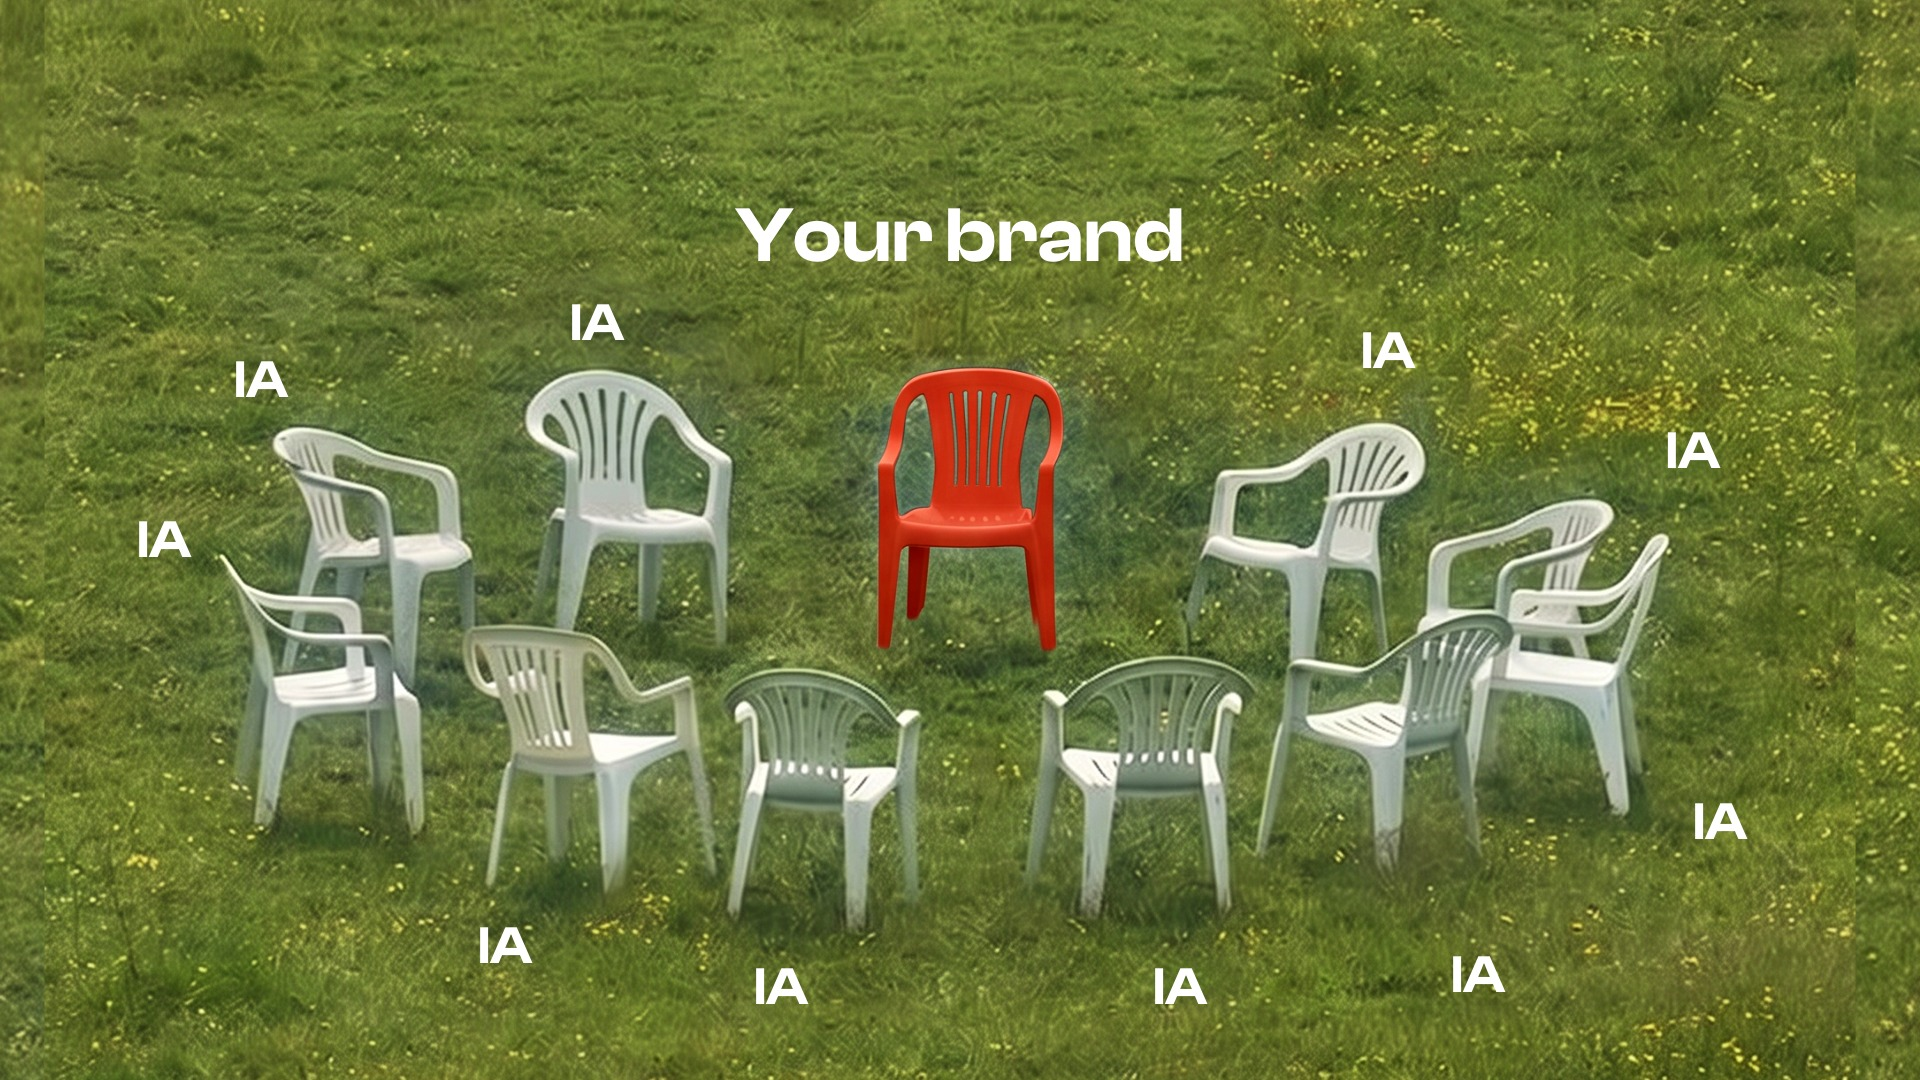
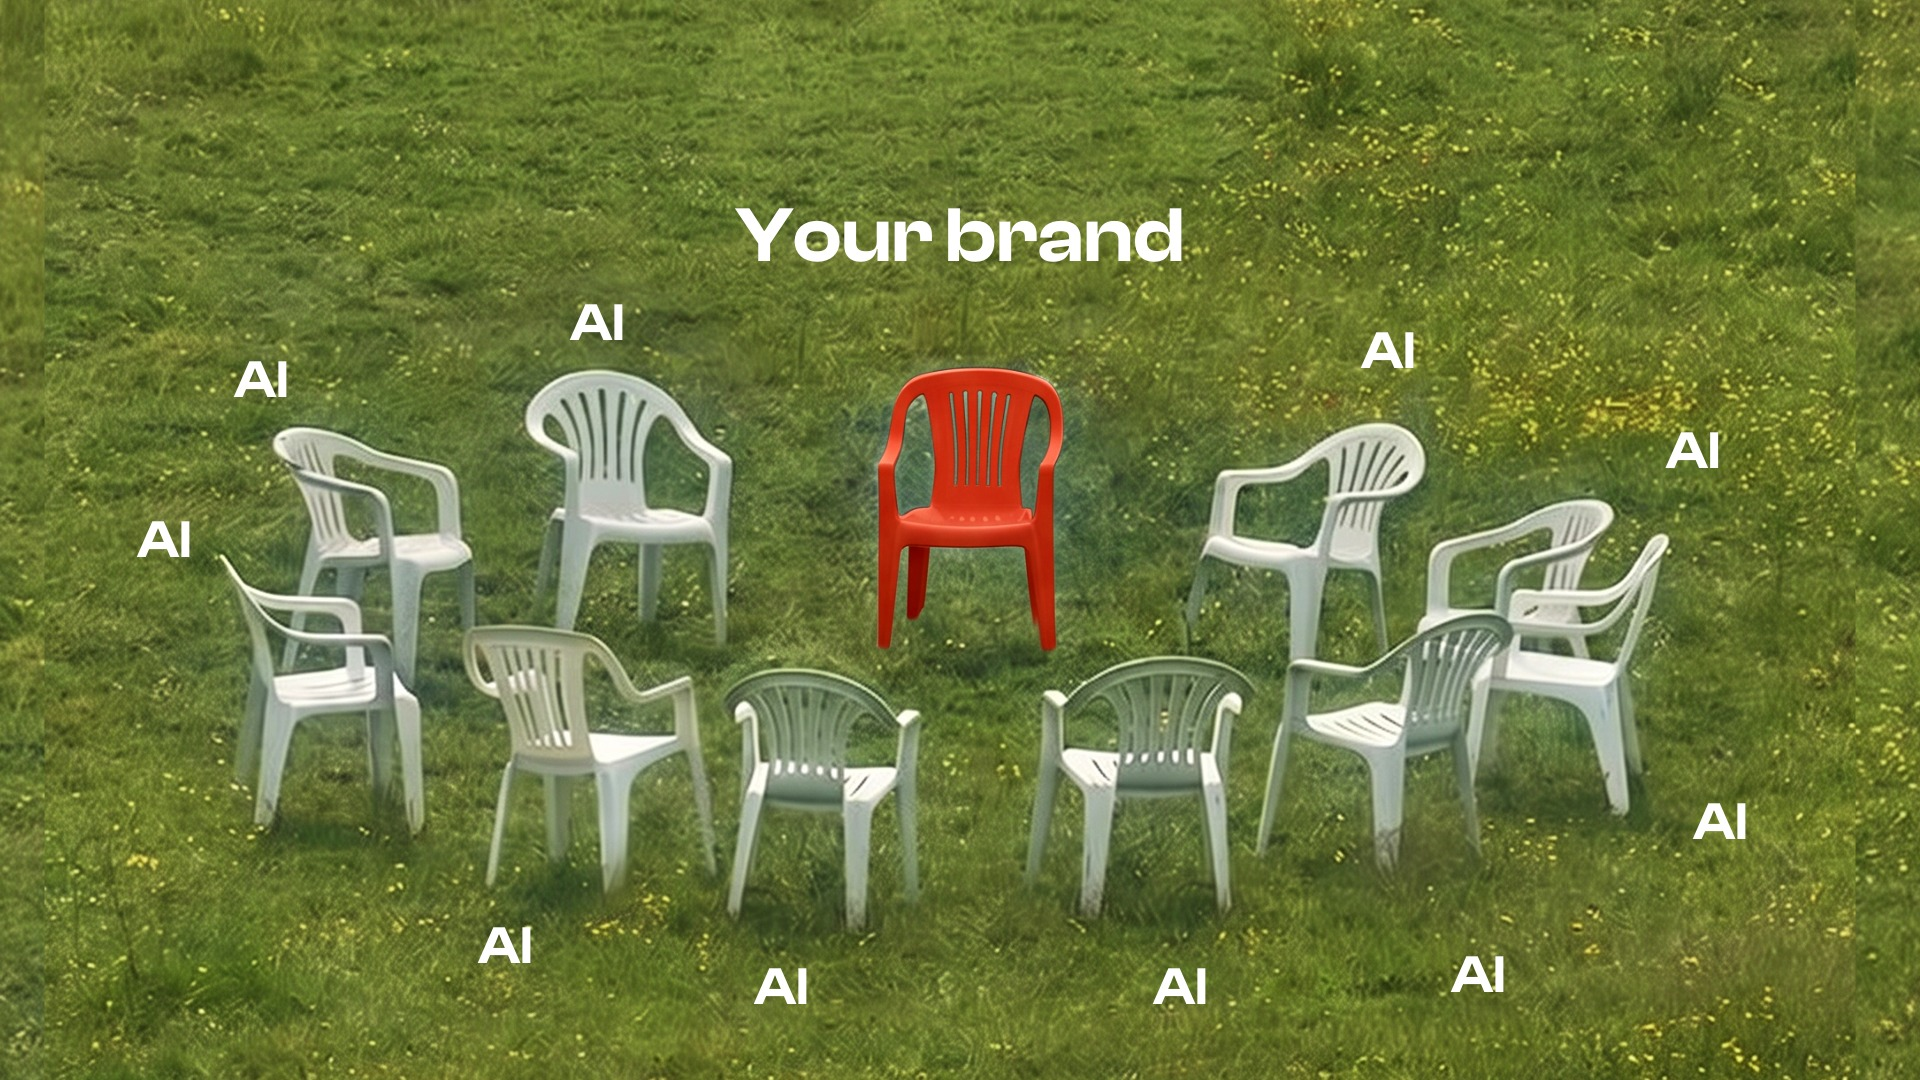
upadte video && image blog 5 EN version

diff --git a/src/components/Pillars.tsx b/src/components/Pillars.tsx
@@ -59,7 +59,7 @@ export default function Pillars({ lang }: { lang: Lang }) {
               opacity={0.9}
             />
             <video
-              src="/videos/pillars-flow.webm"
+              src={lang === "en" ? "/videos/pillars-en.webm" : "/videos/pillars-flow.webm"}
               autoPlay
               muted
               loop
